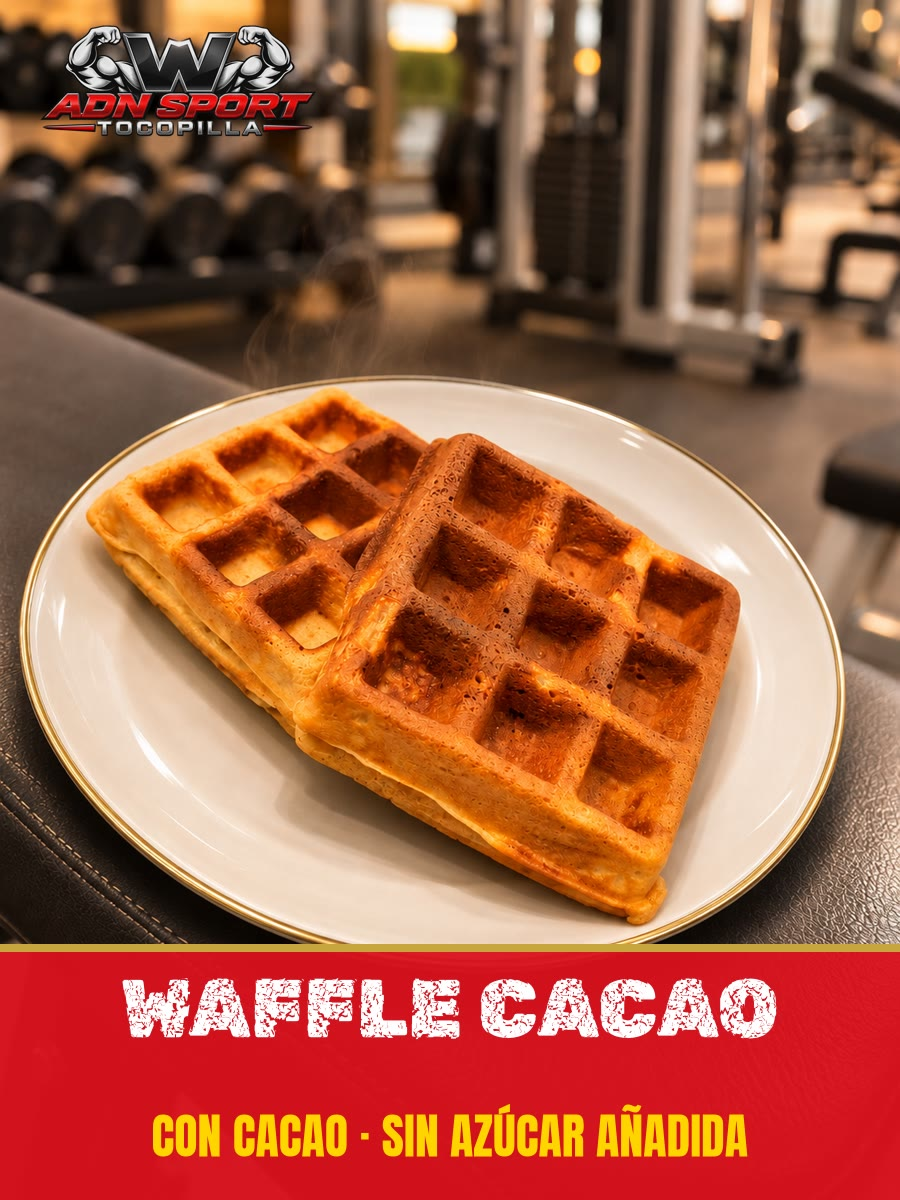
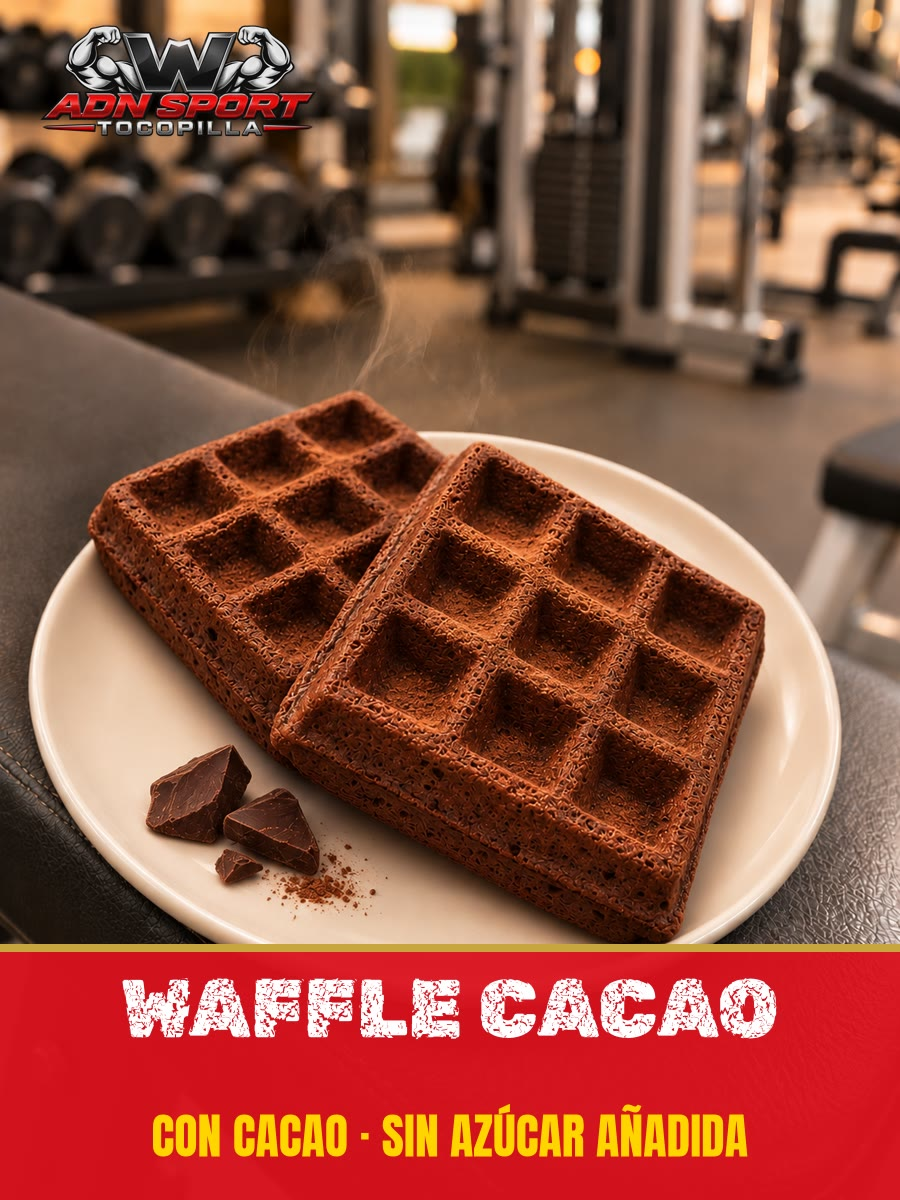
Tienda: foto real del waffle de cacao
Claude-Session: https://claude.ai/code/session_013ZgZPSRHEDhMsqmx8Km842

diff --git a/tienda.html b/tienda.html
@@ -261,7 +261,7 @@ function hoyISO(){ return new Intl.DateTimeFormat("en-CA", { timeZone:"America/S
 function ahoraTxt(){ var f = new Intl.DateTimeFormat("sv-SE", { timeZone:"America/Santiago", year:"numeric", month:"2-digit", day:"2-digit", hour:"2-digit", minute:"2-digit" }).format(new Date()); return f.replace("T", " ").slice(0, 16); }
 function normTxt(s){ return String(s || "").toUpperCase().normalize("NFD").replace(/[̀-ͯ]/g, ""); }
 /* Al cambiar una foto en img/tienda/ (mismo nombre), subir FOTO_V para que los teléfonos no muestren la antigua. */
-var FOTO_V = "58";
+var FOTO_V = "59";
 function fotoUrl(f){ return f ? (/^data:/.test(f) ? f : f + (f.indexOf("?") < 0 ? "?v=" + FOTO_V : "")) : ""; }
 /* 📷 Foto subida desde el celular (27-10-2026, la dueña: "¿no lo puedo hacer todo sin depender de ti?"): se achica a
    máx. 480 × 640, se le pone el logo del gimnasio arriba a la izquierda (34 % del ancho, como las demás fotos) y se guarda
@@ -536,7 +536,7 @@ setInterval(function(){ if(pend.length) enviarPendientes(); }, 30000);
    el computador"): los datos se vuelven a pedir a la planilla cada 30 s mientras la página está a la vista (sin una ficha
    abierta), y cada minuto se revisa tienda-version.txt: si hay una versión nueva de la página, se recarga sola.
    Cada vez que se cambie tienda.html, subir TIENDA_VERSION y tienda-version.txt juntos (AAAAMMDDNN). */
-var TIENDA_VERSION = "2026110513";
+var TIENDA_VERSION = "2026110514";
 setInterval(function(){ if(clave && !document.hidden && $("velo").hidden && !$("app").hidden) enviarPendientes().then(function(){ cargar(true); }); }, 30000);
 function revisarVersion(){
  fetch("tienda-version.txt?t=" + Date.now(), { cache:"no-store" }).then(function(r){ return r.ok ? r.text() : ""; }).then(function(v){

diff --git a/tarjeta.html b/tarjeta.html
@@ -2474,7 +2474,7 @@ function renderEvolucion(s){
     oculta con «Ya no lo vendo» no llega. «Lo quiero» abre una ventanita (foto grande, cantidad, total)
     y después WhatsApp a Sara con el pedido. El stock solo baja cuando ella cobra en la tienda.
     Al cambiar una foto de img/tienda/ con el mismo nombre, subir TIENDA_FOTO_V junto con FOTO_V de tienda.html. */
- var TIENDA_FOTO_V = "58", TIENDA_WSP = "56975196394", TIENDA_SITIO = "https://encaladasara363-lang.github.io/wgymadnsport-archivos/";
+ var TIENDA_FOTO_V = "59", TIENDA_WSP = "56975196394", TIENDA_SITIO = "https://encaladasara363-lang.github.io/wgymadnsport-archivos/";
  /* Interruptor (25-10-2026, la dueña: "no quiero publicar la tienda el lunes porque compré ropa en Shein y no sé
     cuándo me llegaría"): en false la tarjeta no muestra la tienda aunque la Versión 25 esté instalada.
     Ponerlo en true (y subir TARJETA_VERSION) solo cuando ella lo pida. */
@@ -2689,7 +2689,7 @@ function renderEvolucion(s){
     compara TARJETA_VERSION con tarjeta-version.txt del sitio y, si hay
     una más nueva, la página se recarga sola (el nombre ya aparece
     puesto). Al cambiar tarjeta.html, subir los DOS números juntos. */
- var TARJETA_VERSION = "2026110518", ultimaRevisionVersion = 0;
+ var TARJETA_VERSION = "2026110519", ultimaRevisionVersion = 0;
 function recargarFresco_(v){
  /* Recarga pidiendo la página nueva (11-10-2026): location.reload() podía traer la copia
     guardada del teléfono (GitHub guarda la página ~10 min) y el socio seguía con la versión

diff --git a/CLAUDE.md b/CLAUDE.md
@@ -1635,7 +1635,7 @@ productos» y «Tienda movimientos», acciones `tienda*` de `docs/apps-script/In
 - **🍹 Categoría «Smoothies» (05-11-2026, la dueña: "una sección de smoothies… unos 10 sabores", el primero el Choco Banana Cream):** en `CATS` de `tienda.html`, `TIENDA_ICONOS` de `tarjeta.html` y `SIN_APARTAR`; la vitrina cerrada dice «🍹 Smoothies proteicos». Todos los sabores salen de las porciones del producto «Tarro de proteína …» (Suplementos, stock = porciones de 30 g; `USA_PORCION` `/^smoothie/` → `/^tarro de prote/`); el tarro no se muestra a los socios (la tarjeta lo saca de la vitrina) y cada smoothie toma su stock. Los nombres empiezan con «Smoothie proteico …»; cada sabor lleva su línea en `TIENDA_MACROS`. Un solo código para todos: `CODIGOS_GRUPO` `"2004500000001": "Smoothies"` («🍹 ¿Qué sabor?» al escanear); etiquetas de 24 por hoja de 5 × 7 pulgadas con «SMOOTHIES $4.500», leídas con ZXing. El ganador de masa también sale del tarro (`/^(tarro de prote|batido de prote)/`).
 - **🍫 Barrita Choco Maní — YA NO SE VENDE desde el 05-11-2026 (la dueña: "las barritas no las haré más"; se oculta en el inventario con «🗑 Ya no lo vendo»; no volver a ofrecerla). Era (03-11-2026, afiche de la dueña + logo arriba a la izquierda al 22 %, como la creatina: `img/tienda/barrita-choco-mani.jpg`):** Snacks, 28 g, chocolate sin azúcar con almendras y maní; costo $1.000, venta $2.000; código propio 200….
 - **🧇 Waffle de arroz, avena y dátil (05-11-2026, receta casera de la dueña, sin topping):** Snacks, 1 waffle belga de su waflera giratoria (≈130 g de masa: harina de arroz, avena, dátil, leche sin lactosa, 12 g de leche en polvo y 30 g de yogur griego por media receta, huevo, aceite de coco); costo ≈$580, venta $1.000 (ella eligió ese precio para vender más), 10 unidades, código propio 200…; foto `img/tienda/waffle-arroz-avena-datil.jpg` (ChatGPT: plato blanco con borde dorado sobre el banco negro, + logo; cambiada el mismo día, FOTO_V 51). Macros en `TIENDA_MACROS` (`/^waffle/`): ≈355 kcal · 12 P · 48 C · 13,5 G; contiene huevo y leche.
-- **🧇 Categoría «Waffles» (06-11-2026, la dueña hizo waffles de berries, almendras y cacao y quiere un solo código):** en `CATS` de `tienda.html`, `TIENDA_ICONOS` de `tarjeta.html` y `SIN_APARTAR`; la vitrina cerrada dice «🧇 Waffles caseros sin azúcar añadida». Un solo código para todos los sabores: `CODIGOS_GRUPO` `"2000000100012": "Waffles"` (el mismo de la etiqueta ya impresa del waffle de arroz) → «¿Qué sabor?» al escanear. Los nombres empiezan con «Waffle de …» ($1.000 cada uno). Etiquetas 5 × 7 pulgadas: 8 por sabor con el nombre (WAFFLE BERRIES / ALMENDRAS / CACAO). Los macros de `TIENDA_MACROS` (`/^waffle de arroz/`) son solo del de arroz, avena y dátil; cada sabor nuevo necesita su línea cuando la dueña mande la receta. Foto de berries `img/tienda/waffle-berries.jpg` y de almendras `waffle-almendras.jpg` hechas en ChatGPT (06-11-2026, + logo + franja; berries 2 unidades, almendras y cacao 8). Foto provisoria `waffle-cacao.jpg` (la foto del plato con franja roja/dorada con el sabor; ya traen el logo) hasta que la dueña mande las de ChatGPT con cada sabor a la vista.
+- **🧇 Categoría «Waffles» (06-11-2026, la dueña hizo waffles de berries, almendras y cacao y quiere un solo código):** en `CATS` de `tienda.html`, `TIENDA_ICONOS` de `tarjeta.html` y `SIN_APARTAR`; la vitrina cerrada dice «🧇 Waffles caseros sin azúcar añadida». Un solo código para todos los sabores: `CODIGOS_GRUPO` `"2000000100012": "Waffles"` (el mismo de la etiqueta ya impresa del waffle de arroz) → «¿Qué sabor?» al escanear. Los nombres empiezan con «Waffle de …» ($1.000 cada uno). Etiquetas 5 × 7 pulgadas: 8 por sabor con el nombre (WAFFLE BERRIES / ALMENDRAS / CACAO). Los macros de `TIENDA_MACROS` (`/^waffle de arroz/`) son solo del de arroz, avena y dátil; cada sabor nuevo necesita su línea cuando la dueña mande la receta. Fotos `img/tienda/waffle-berries.jpg`, `waffle-almendras.jpg` y `waffle-cacao.jpg` hechas en ChatGPT desde la de berries (06-11-2026, + logo + franja roja/dorada con el sabor; ya traen el logo). Berries 2 unidades, almendras y cacao 8.
 - **💪 Creatina por porción en bolsita de 5 g (03-11-2026, afiche de la dueña + logo arriba a la izquierda, más chico (22 %) para no tapar «CREATINA»: `img/tienda/creatina-por-porcion-bolsita.jpg`):** Suplementos, venta $1.000; costo $104 (bolsa OstroVit 100 % Creatine Monohydrate natural de 1 kg a $20.840 ÷ 200 bolsitas de 5 g, sin contar la bolsita); 1 bolsita = 1 unidad del stock.
 - **🧊 Pre entreno granizado Fruit Punch (03-11-2026, afiche de la dueña con el logo: `img/tienda/pre-entreno-granizado-fruit-punch.jpg`):** Bebestibles, costo $1.000 (porción + hielo + vaso), vaso a $3.000, «+ Creatina $1.000» (en 🛒 Vender y en la ventanita de la tarjeta). No lleva stock propio: cada vaso descuenta 1 porción del tarro «Pre entreno Mr Hyde Signature Fruit Punch» (`USA_PORCION` en `tienda.html`; la vitrina de la tarjeta toma el stock de ese tarro). Solo adultos, no apto en embarazo ni lactancia.
 - **👖 Pantalón deportivo gris jaspeado con franjas negras (03-11-2026):** Ropa mujer, talla S, pierna ancha, «DIRECTION» en el muslo; costo $10.000, venta $15.000, 1 unidad; foto `img/tienda/pantalon-deportivo-gris-franjas-negras.jpg` (afiche rosado de la dueña, ya trae el logo).
